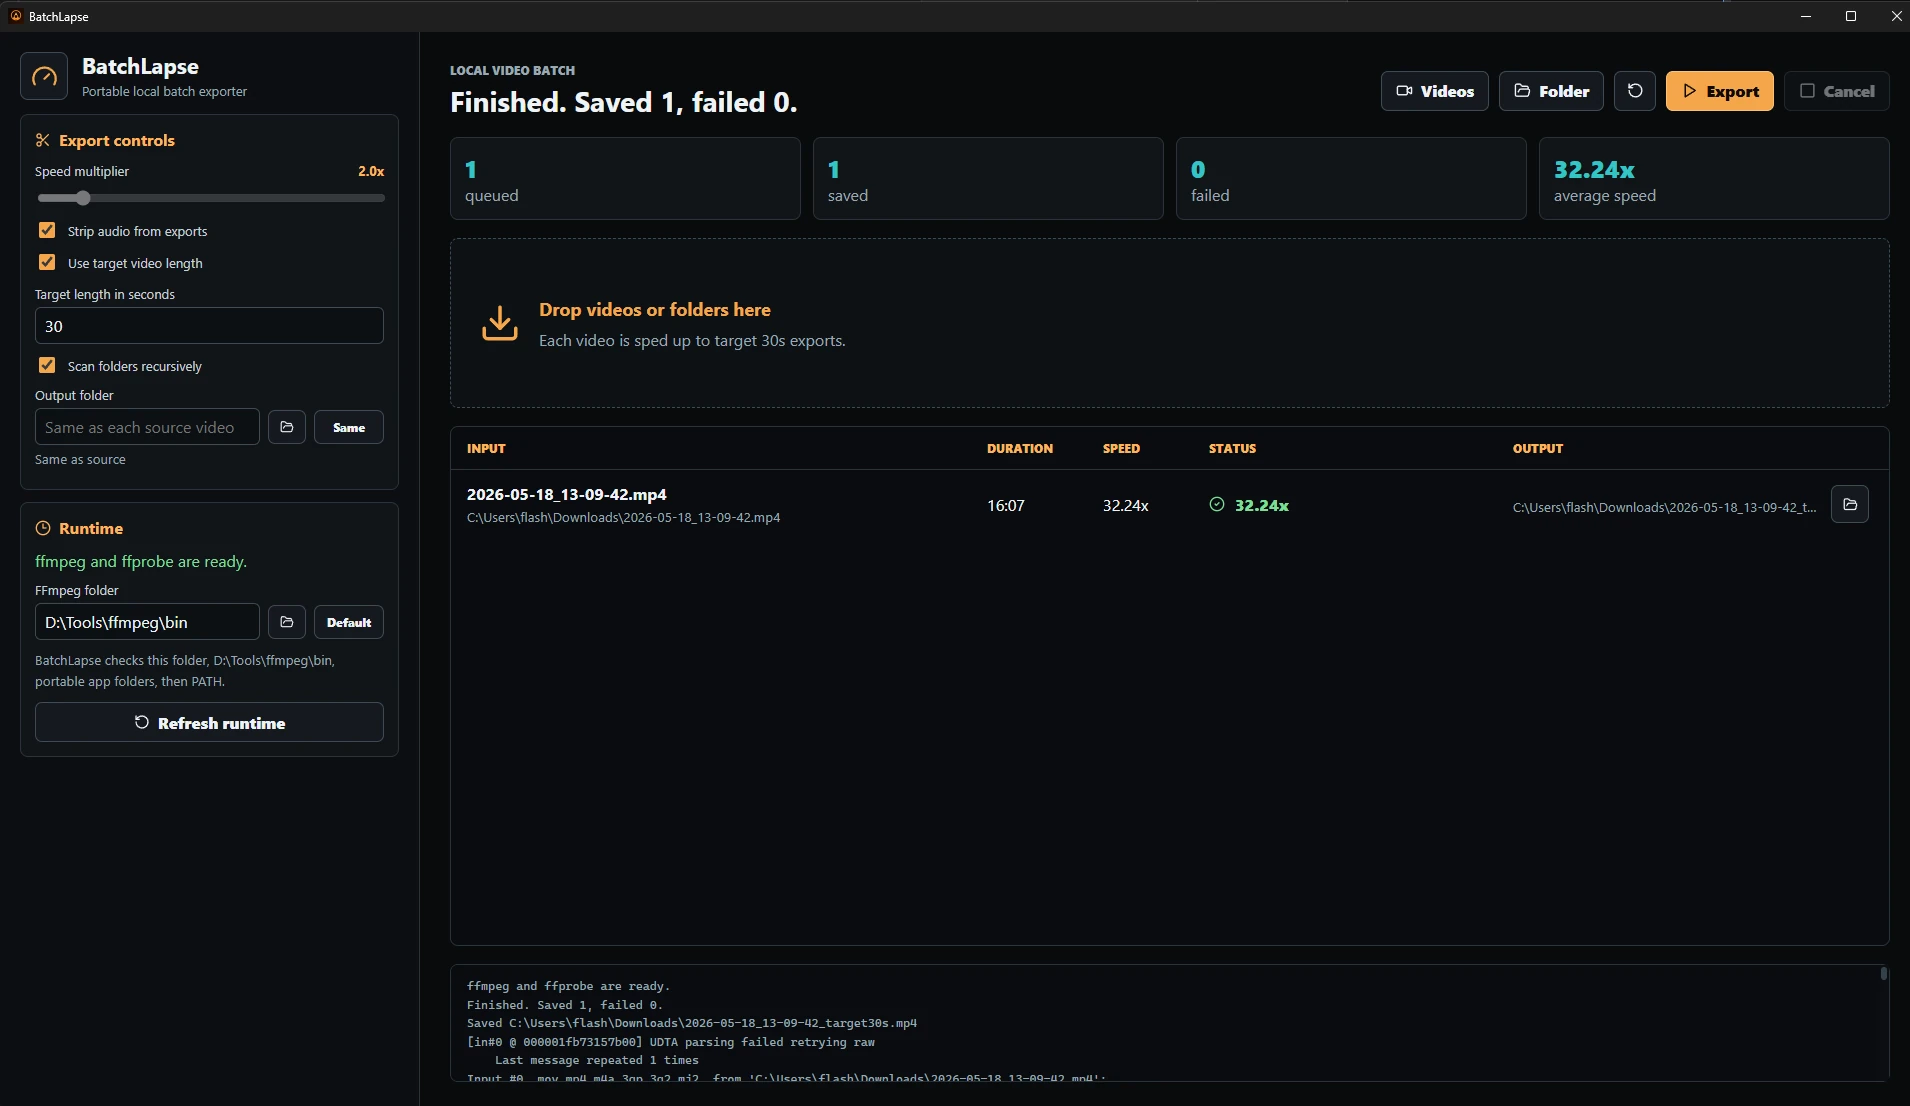
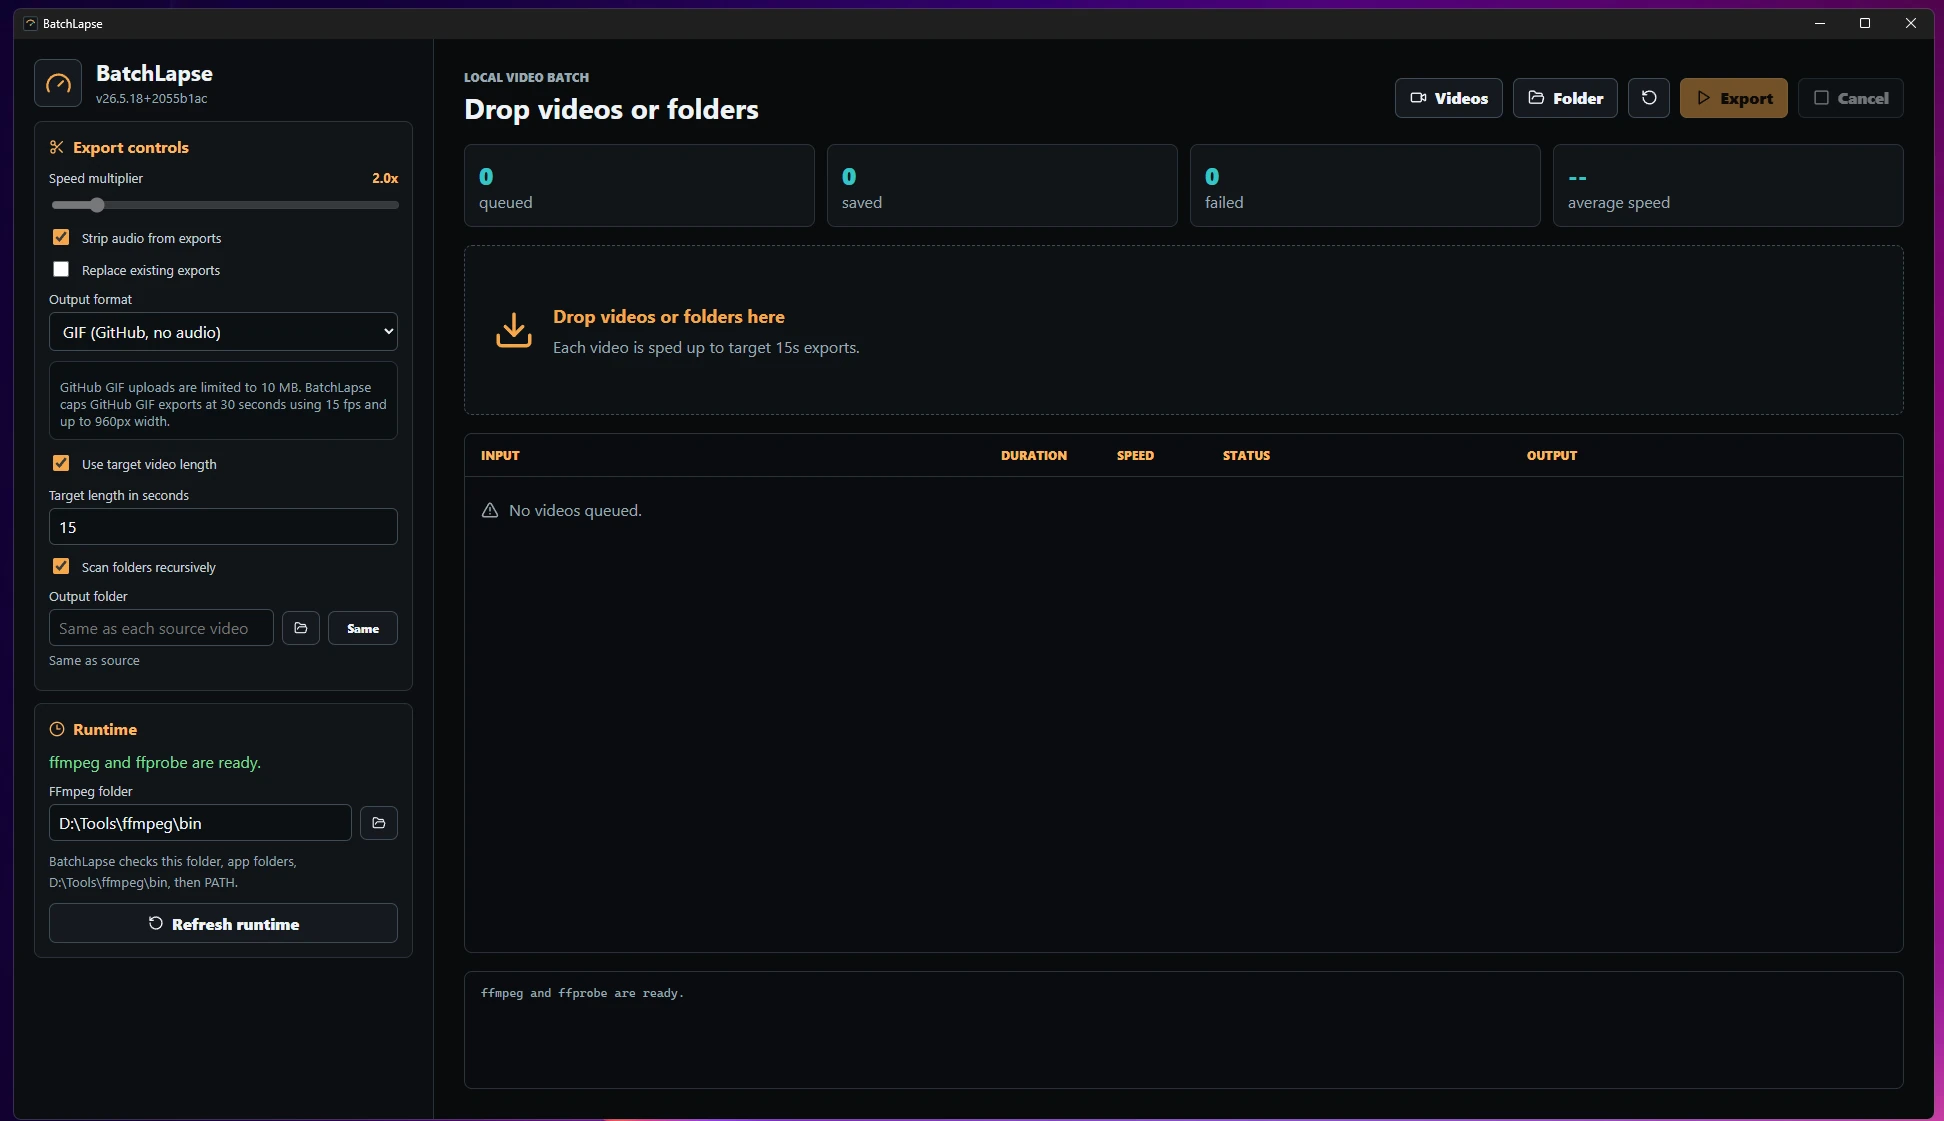
Document BatchLapse use cases

diff --git a/README.md b/README.md
@@ -5,6 +5,12 @@ timelapse-style exports.
 
 ![BatchLapse screenshot](sc.webp)
 
+## Use Cases
+
+- Post short timelapse videos on X.
+- Create animated GIFs that work well in GitHub READMEs, issues, and pull requests.
+- Make a quick speed-up effect without opening a full video editor.
+
 ## GitHub GIF Example
 
 This is a 15-second GitHub GIF export from BatchLapse: